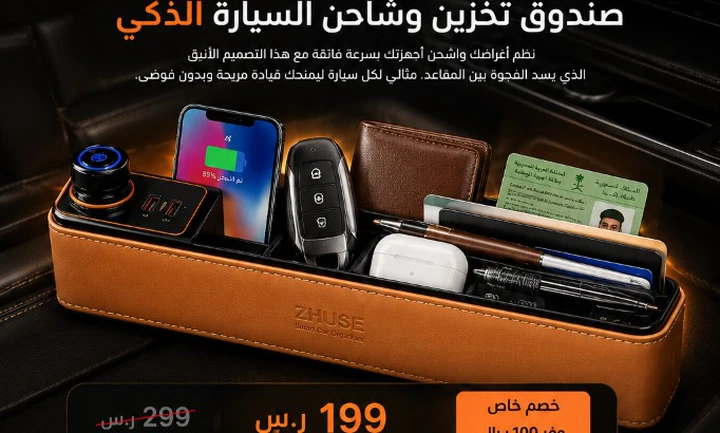
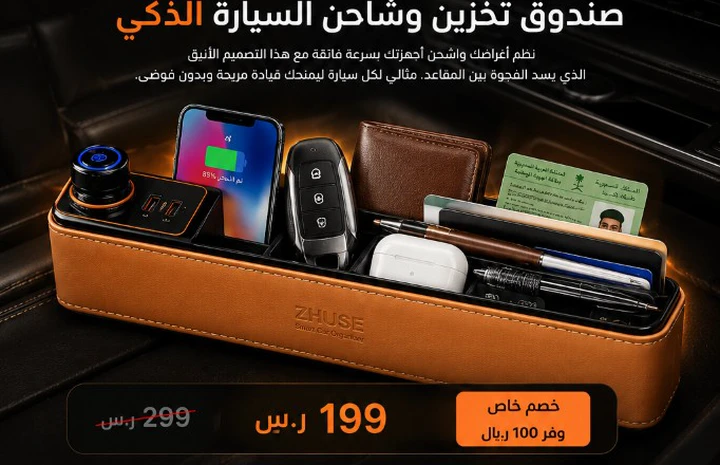
Fix clipped price bar overlap between hero and order form.

diff --git a/p/zhuse/index.html b/p/zhuse/index.html
@@ -839,22 +839,27 @@
       border-radius: 18px 18px 0 0;
       overflow: hidden;
       background: #0d0b0a;
+      position: relative;
+      z-index: 2;
     }
     .mock-hero img {
       display: block;
       width: 100%;
       height: auto;
+      vertical-align: top;
     }
 
     .order-box.order-panel.mock-form {
-      margin-top: -1px;
-      padding: 18px 16px 20px;
+      margin-top: 0;
+      padding: 16px 16px 20px;
       border-radius: 0 0 18px 18px;
       border: 1px solid rgba(255, 140, 40, 0.22);
-      border-top: none;
+      border-top: 1px solid rgba(255, 140, 40, 0.18);
       background: linear-gradient(180deg, #1b1410 0%, #15100d 55%, #120e0b 100%);
       color: #f5ebe0;
       box-shadow: 0 18px 40px rgba(0, 0, 0, 0.45);
+      position: relative;
+      z-index: 1;
     }
     .order-box.mock-form.leather-panel::before { display: none; }
     .order-box.mock-form .mobile-form-lead,
@@ -862,13 +867,14 @@
     .order-box.mock-form > .sub,
     .order-box.mock-form > .offer-tags,
     .order-box.mock-form > .stock-note,
-    .order-box.mock-form > .cod-banner,
-    .order-box.mock-form > h3 {
+    .order-box.mock-form > .cod-banner {
       display: none !important;
     }
-
+    .order-box.mock-form > h3:not(.mock-form-title) {
+      display: none !important;
+    }
     .mock-form-title {
-      display: flex;
+      display: flex !important;
       align-items: center;
       justify-content: center;
       gap: 8px;
@@ -994,12 +1000,12 @@
     <div class="order-stack">
       <figure class="mock-hero">
         <picture>
-          <source srcset="assets/hero-form.webp?v=20260708items" type="image/webp" />
+          <source srcset="assets/hero-form.webp?v=20260708fix2" type="image/webp" />
           <img
-            src="assets/hero-form.png?v=20260708items"
+            src="assets/hero-form.png?v=20260708fix2"
             alt="صندوق تخزين وشاحن السيارة الذكي ZHUSE مع الجوال والمحفظة والمفاتيح — 199 ر.س"
             width="720"
-            height="433"
+            height="465"
             decoding="async" />
         </picture>
       </figure>
